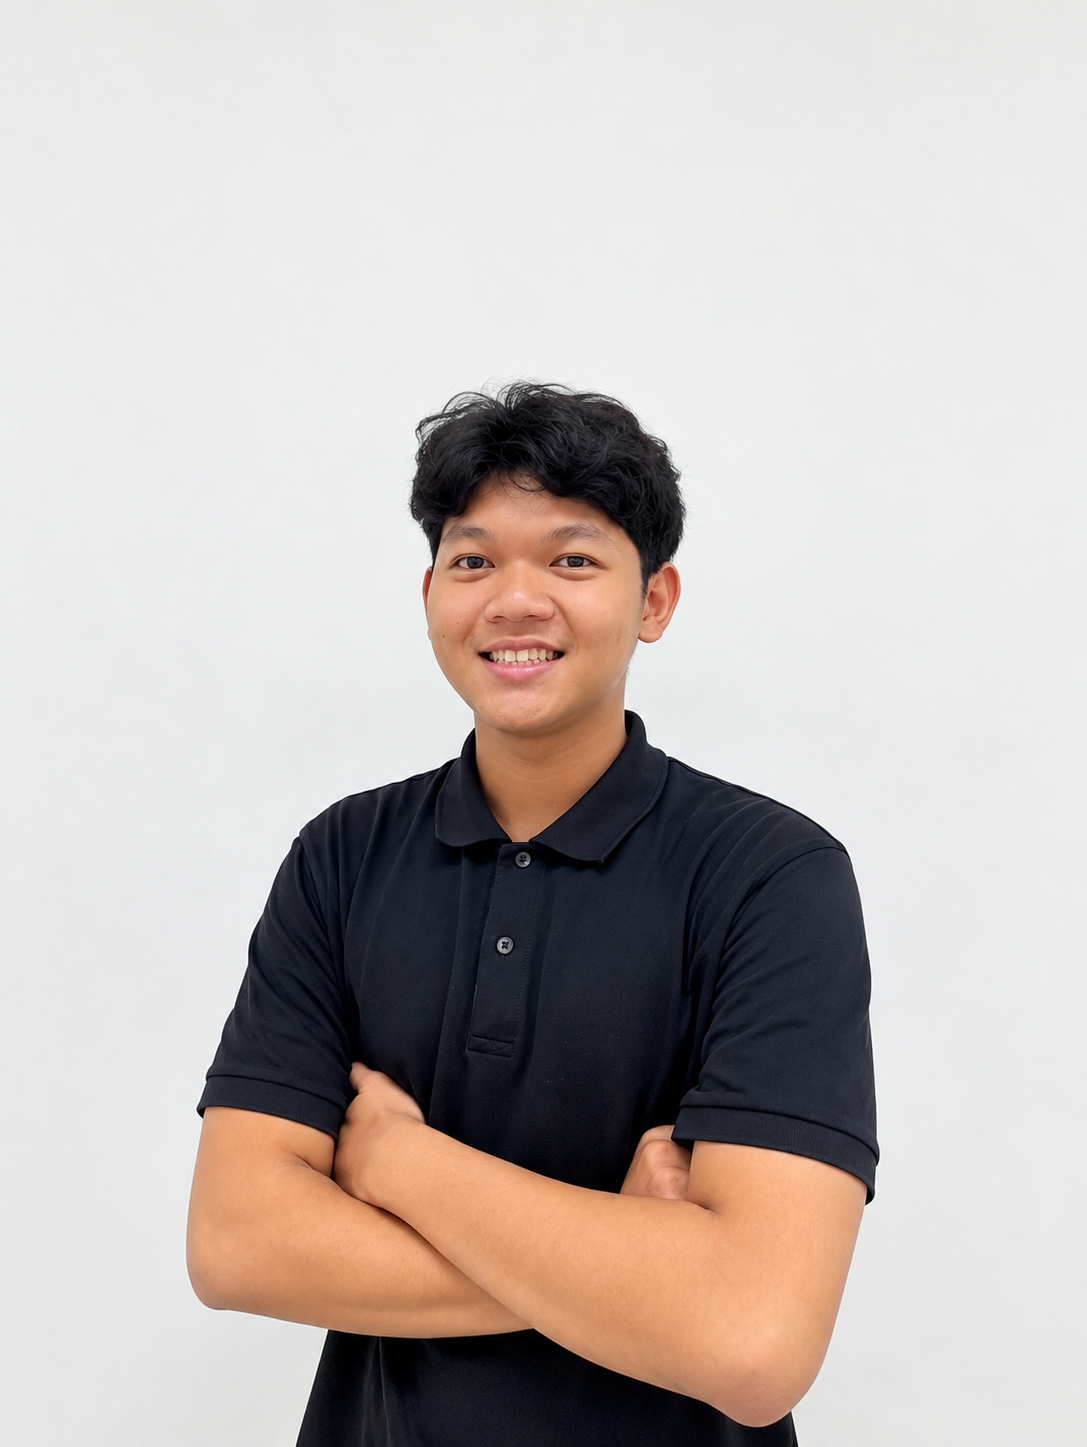
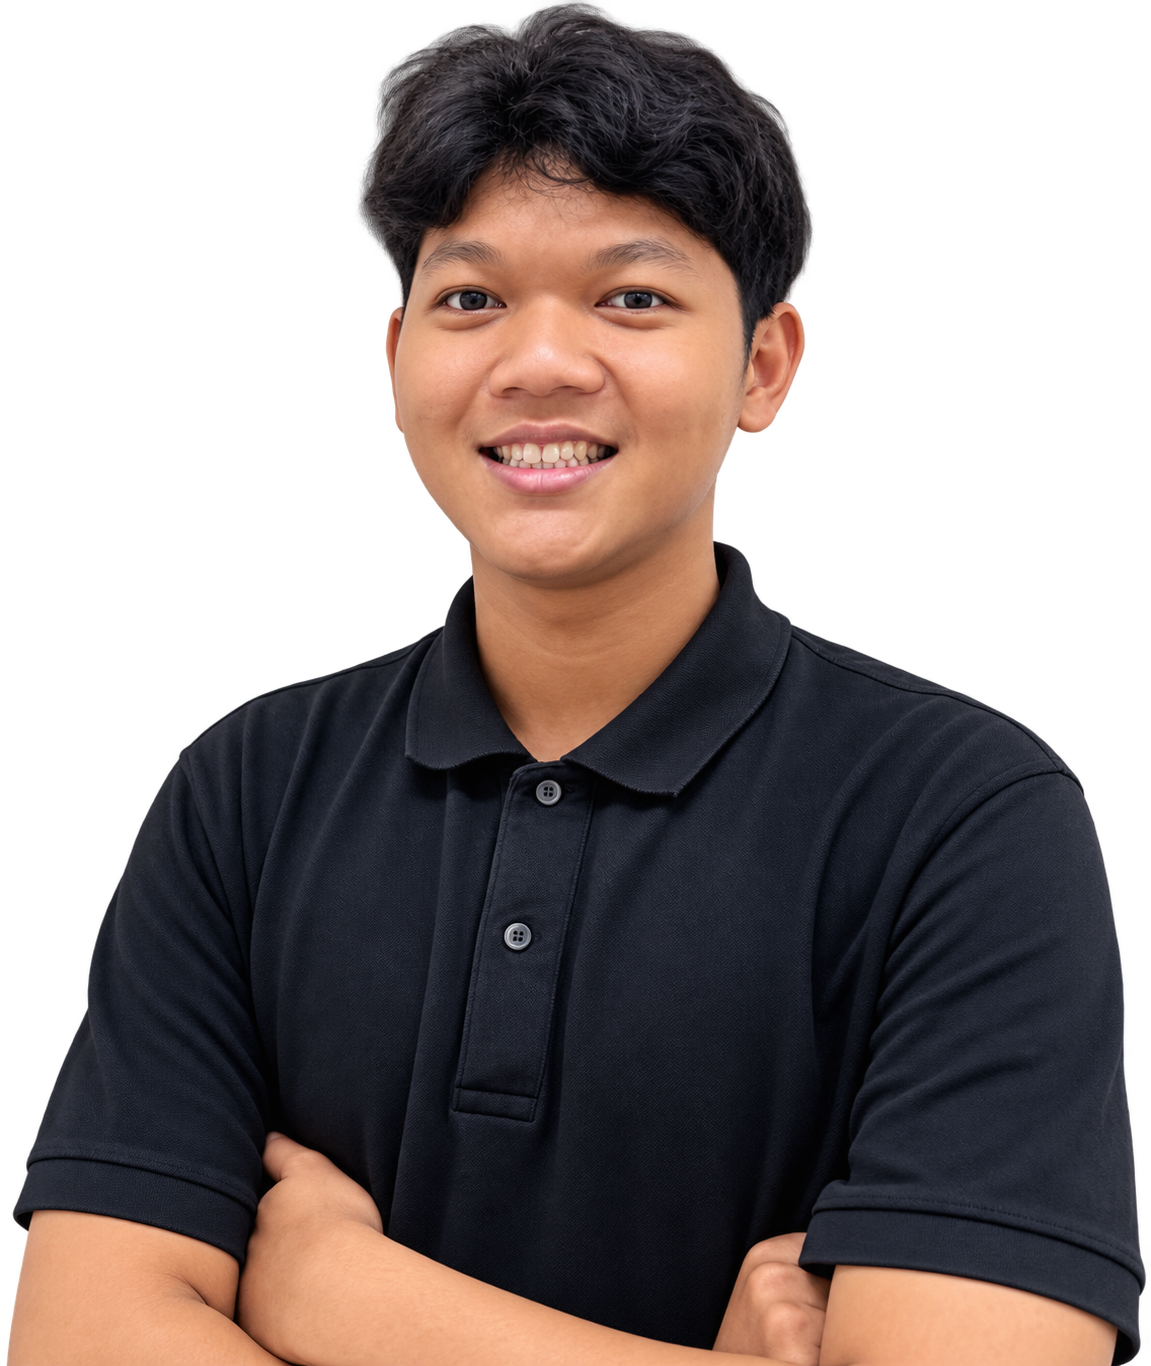
ganti foto hero

diff --git a/components/hero.html b/components/hero.html
@@ -65,7 +65,7 @@
         <!-- Cutout Image Container -->
         <div class="relative z-10 flex items-end justify-center w-full">
           <img
-            src="assets/me.png"
+            src="assets/me2.png"
             alt="Fajar Herlambang - Web Developer & AI Specialist"
             class="w-full max-w-[340px] sm:max-w-[420px] md:max-w-[500px] lg:max-w-[540px] xl:max-w-[620px] h-auto max-h-[500px] sm:max-h-[580px] lg:max-h-[660px] xl:max-h-[740px] object-contain object-bottom drop-shadow-[0_25px_50px_rgba(0,0,0,0.9)] select-none"
             style="-webkit-mask-image: linear-gradient(to bottom, black 88%, transparent 100%); mask-image: linear-gradient(to bottom, black 88%, transparent 100%);">
